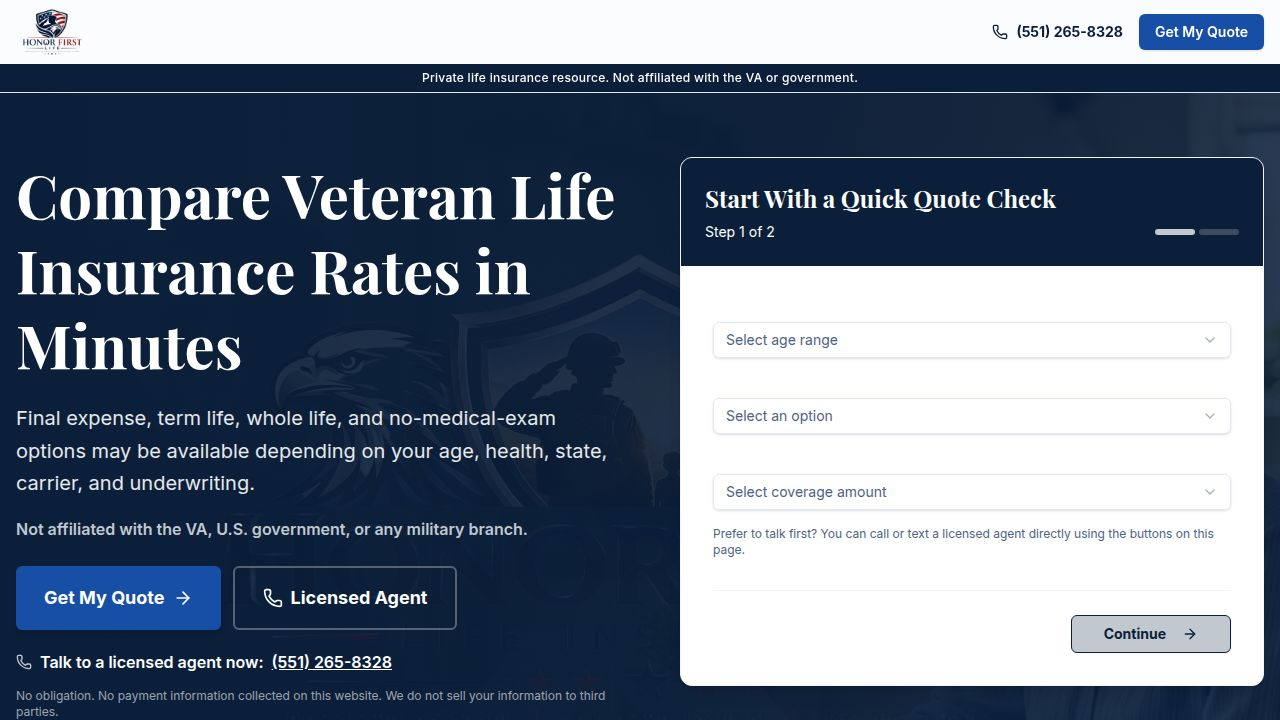
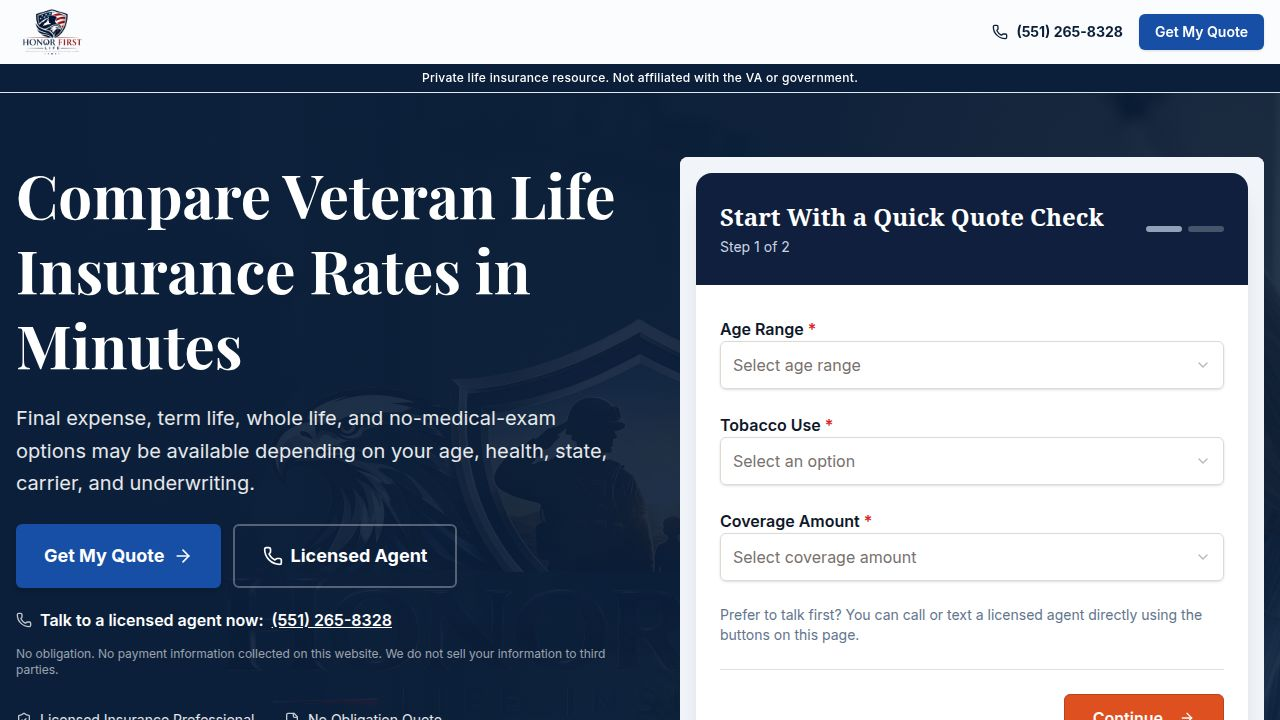
Replace the existing form with an external CRM embed
Update landing page to use an iframe embedding an external CRM form, removing the local LeadForm component.

Replit-Commit-Author: Agent
Replit-Commit-Session-Id: c746cd93-0bd4-46b8-938f-afc54f8fca59
Replit-Commit-Checkpoint-Type: full_checkpoint
Replit-Commit-Event-Id: a2bf5a4e-7b3e-4953-ab9d-525ef8cb1f4d
Replit-Commit-Screenshot-Url: https://storage.googleapis.com/screenshot-production-us-central1/84ef3f72-b936-4cac-9652-0d1bbf823266/c746cd93-0bd4-46b8-938f-afc54f8fca59/c2XfEDL
Replit-Helium-Checkpoint-Created: true

diff --git a/artifacts/web/src/pages/landing.tsx b/artifacts/web/src/pages/landing.tsx
@@ -1,5 +1,4 @@
 import { PublicLayout } from "@/components/layout/PublicLayout";
-import { LeadForm } from "@/components/LeadForm";
 import { CarrierLogoStrip } from "@/components/CarrierLogoStrip";
 import { useSeo } from "@/lib/seo";
 import { useTrack } from "@/hooks/use-track";
@@ -137,9 +136,16 @@ export default function Landing() {
               </div>
             </div>
 
-            {/* Hero form */}
+            {/* Hero form — external CRM embed */}
             <div id="form-section" className="lg:pl-4 scroll-mt-20">
-              <LeadForm />
+              <iframe
+                src="https://contact-manager-lite-vgutenm.replit.app/embed/form"
+                title="Request your quote"
+                width="100%"
+                height="800"
+                className="w-full rounded-lg border-none bg-white"
+                style={{ border: "none" }}
+              />
             </div>
           </div>
         </div>
